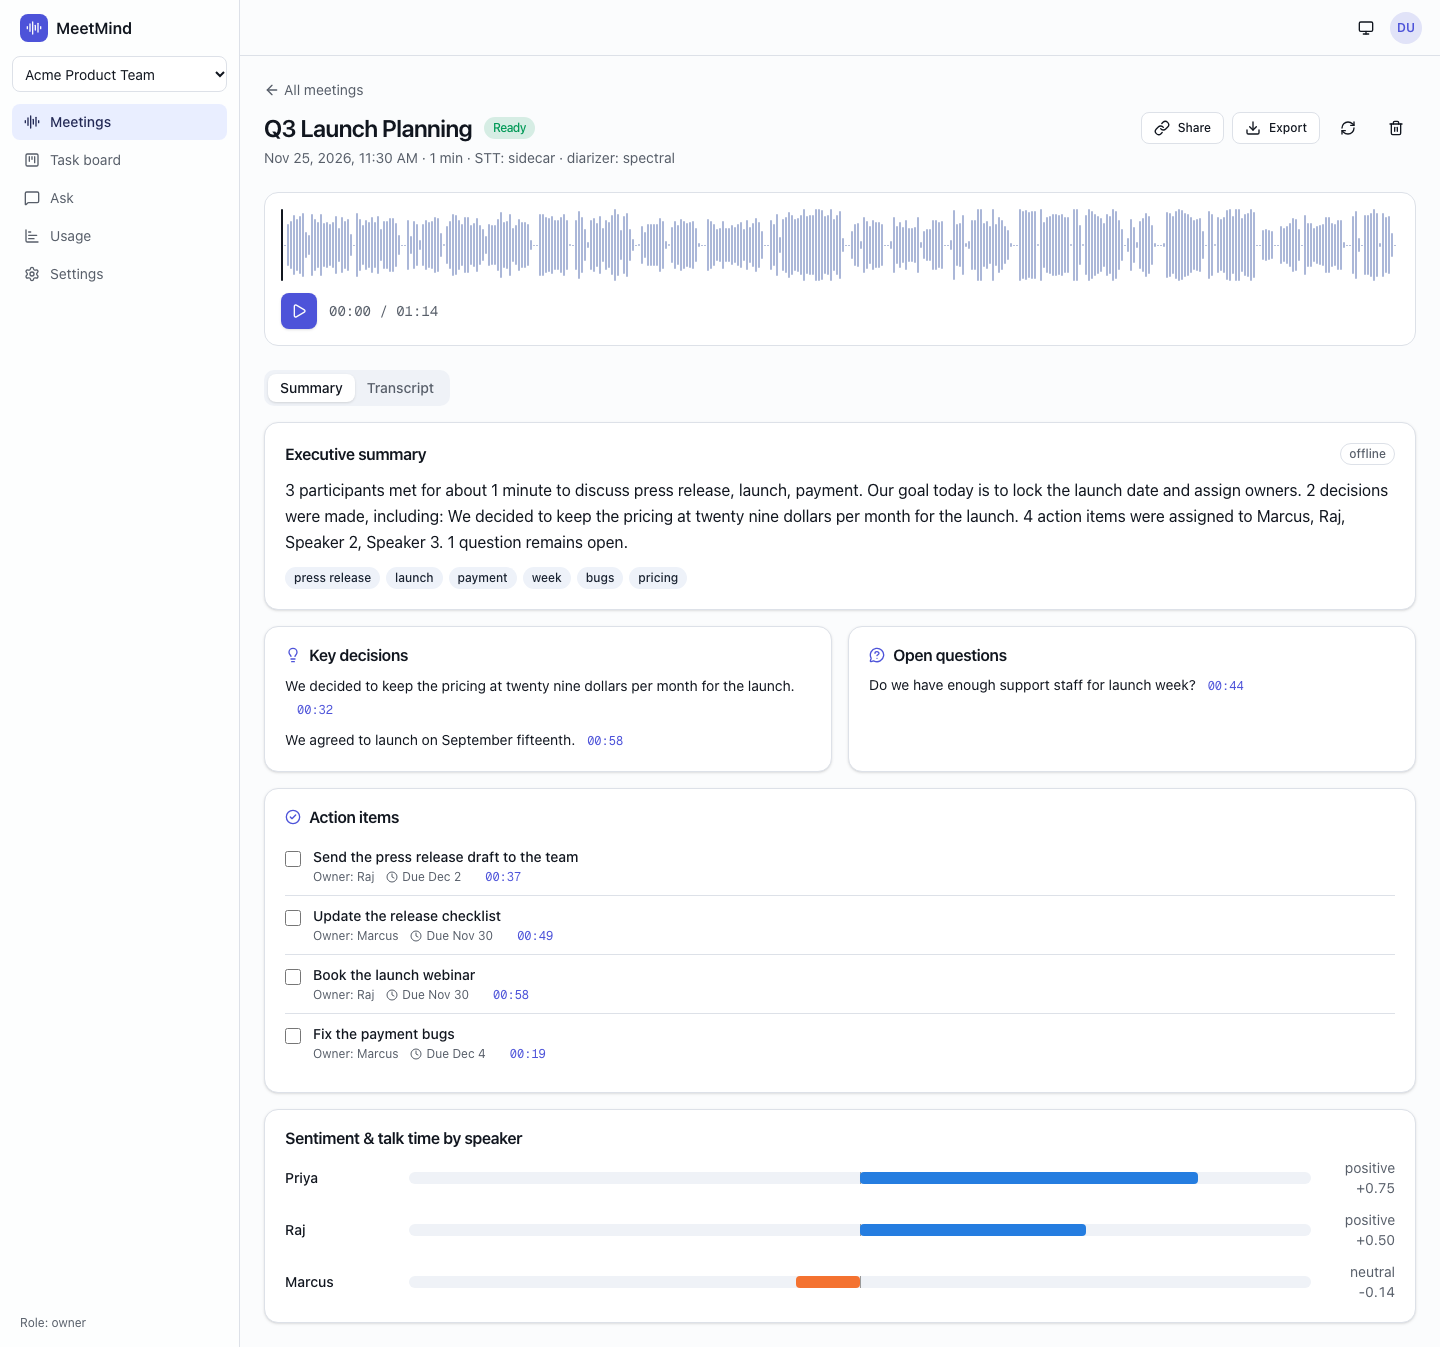
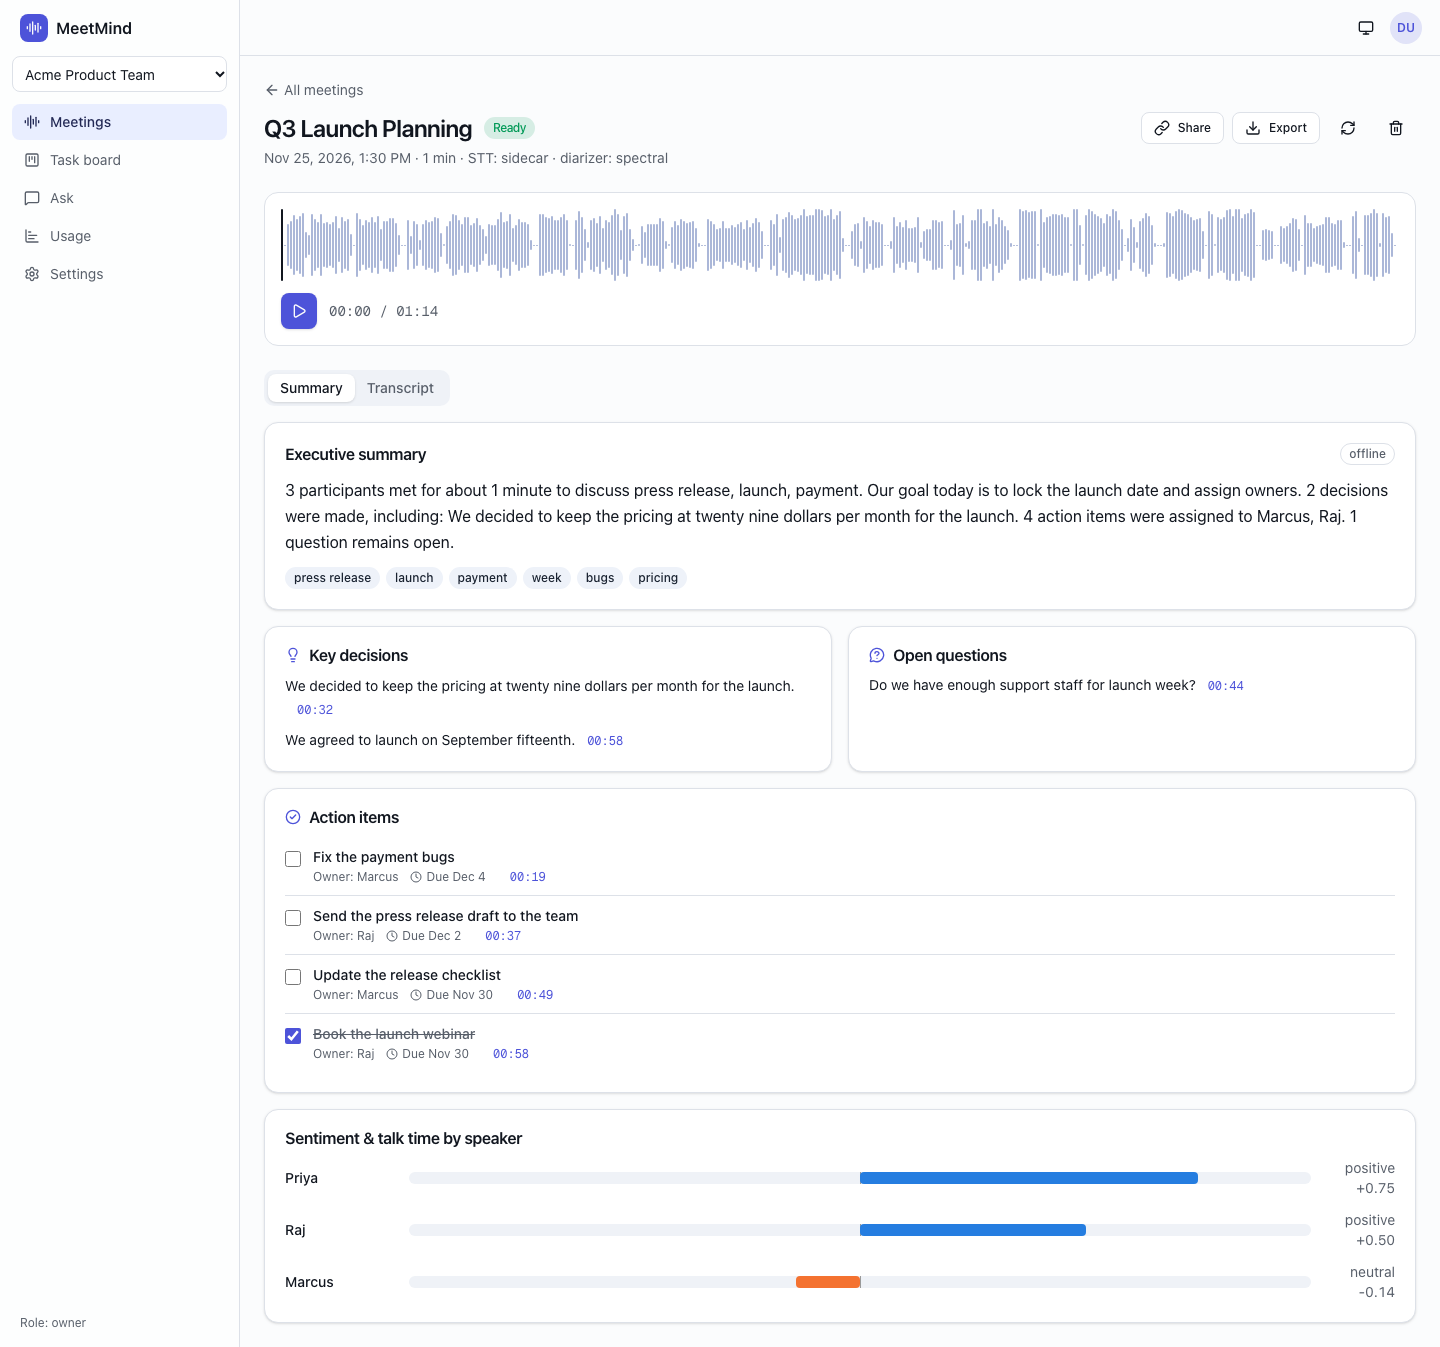
fix(seed): rename speakers before generating insights
Adds regenerate_insights() and uses it in the demo seed so summaries and owners use real
names; speaker renames also update names in generated prose. Refreshes README screenshots
and gives the API a longer first-boot health start period for seeding.

diff --git a/backend/app/services/pipeline.py b/backend/app/services/pipeline.py
@@ -545,3 +545,45 @@ def _auto_post_slack(meeting_id: str) -> None:
 
 def insights_of(meeting: Meeting) -> Insights | None:
     return Insights.model_validate(meeting.insights) if meeting.insights else None
+
+
+def regenerate_insights(
+    db: Session, meeting: Meeting, engine: InsightEngine | None = None
+) -> Insights:
+    """Re-run summarisation on the stored transcript using the *current* speaker names.
+
+    Used after speakers are renamed (e.g. by the demo seed) so generated prose and owners use
+    real names. Replaces the meeting's auto-extracted action items.
+    """
+    settings = get_settings()
+    engine = engine or build_engine(settings)
+    names = {s.id: s.display_name for s in meeting.speakers}
+    lines = [
+        TranscriptLine(seg.start_s, seg.end_s, names.get(seg.speaker_id or "", "Unknown"), seg.text)
+        for seg in meeting.segments
+    ]
+    meeting_date = (meeting.scheduled_at or meeting.created_at).date()
+    result = summarize(
+        engine,
+        AnalysisInput(meeting.title, meeting_date, lines),
+        long_threshold_s=settings.long_meeting_threshold_s,
+        chunk_s=settings.map_chunk_s,
+    )
+    meeting.insights = result.insights.model_dump(mode="json")
+    db.execute(delete(ActionItem).where(ActionItem.meeting_id == meeting.id))
+    for pos, item in enumerate(result.insights.action_items):
+        db.add(
+            ActionItem(
+                workspace_id=meeting.workspace_id,
+                meeting_id=meeting.id,
+                title=item.title,
+                owner_name=item.owner,
+                due_date=item.due_date,
+                status=ActionStatus.TODO,
+                position=float(pos),
+                source_start_s=item.timestamp_s,
+            )
+        )
+    record_llm_usage(db, settings, meeting.workspace_id, meeting.id, result.usage)
+    db.flush()
+    return result.insights

diff --git a/backend/app/services/meetings.py b/backend/app/services/meetings.py
@@ -3,6 +3,7 @@
 from __future__ import annotations
 
 import copy
+import re
 from typing import Any
 
 from sqlalchemy import select, update
@@ -38,6 +39,15 @@ def rename_speaker(db: Session, meeting: Meeting, speaker_id: str, new_name: str
         for s in data.get("sentiment", []):
             if s.get("speaker") == old:
                 s["speaker"] = new_name
+        # Generated prose refers to speakers by label too ("assigned to Speaker 2").
+        pattern = re.compile(rf"(?<![\w]){re.escape(old)}(?![\w])")
+        if isinstance(data.get("executive_summary"), str):
+            data["executive_summary"] = pattern.sub(new_name, data["executive_summary"])
+        data["key_points"] = [pattern.sub(new_name, p) for p in data.get("key_points", [])]
+        for key in ("decisions", "open_questions"):
+            for entry in data.get(key, []):
+                if isinstance(entry.get("text"), str):
+                    entry["text"] = pattern.sub(new_name, entry["text"])
         meeting.insights = data
     for chunk in db.scalars(
         select(TranscriptChunk).where(TranscriptChunk.meeting_id == meeting.id)

diff --git a/backend/app/seed.py b/backend/app/seed.py
@@ -27,7 +27,7 @@ from app.models import (
 )
 from app.services.accounts import create_user_with_workspace
 from app.services.meetings import rename_speaker
-from app.services.pipeline import run_pipeline
+from app.services.pipeline import regenerate_insights, run_pipeline
 from app.services.storage import get_storage
 from app.services.synth import synthesize
 
@@ -109,6 +109,8 @@ def seed() -> bool:
         if meeting is not None:
             for speaker, name in zip(meeting.speakers, ["Priya", "Marcus", "Raj"], strict=False):
                 rename_speaker(db, meeting, speaker.id, name)
+            # Regenerate notes so the summary and owners use the real names from the start.
+            regenerate_insights(db, meeting)
         items = list(
             db.scalars(
                 select(ActionItem)

diff --git a/backend/tests/test_meetings.py b/backend/tests/test_meetings.py
@@ -114,6 +114,8 @@ def test_rename_speaker_propagates(client: TestClient, owner: dict[str, str]) ->
     assert sum(i["owner_name"] == "Marcus" for i in items) == 2
     detail = client.get(f"/api/v1/meetings/{m['id']}", headers=auth(owner)).json()
     assert "Marcus" in {s["speaker"] for s in detail["insights"]["sentiment"]}
+    assert "Speaker 2" not in detail["insights"]["executive_summary"]
+    assert "Marcus" in detail["insights"]["executive_summary"]
     transcript = client.get(f"/api/v1/meetings/{m['id']}/transcript", headers=auth(owner)).json()
     assert "Marcus" in {t["speaker_name"] for t in transcript}
     assert (

diff --git a/backend/tests/test_core.py b/backend/tests/test_core.py
@@ -364,6 +364,9 @@ def test_seed_is_idempotent() -> None:
             "Leo",
             "Mia",
         ]
+        q3_summary = (meetings["Q3 Launch Planning"].insights or {})["executive_summary"]
+        assert "Speaker " not in q3_summary
+        assert "assigned to Marcus, Raj." in q3_summary  # regenerated, not duplicated
 
 
 def test_pipeline_handles_missing_meeting_and_audio(
